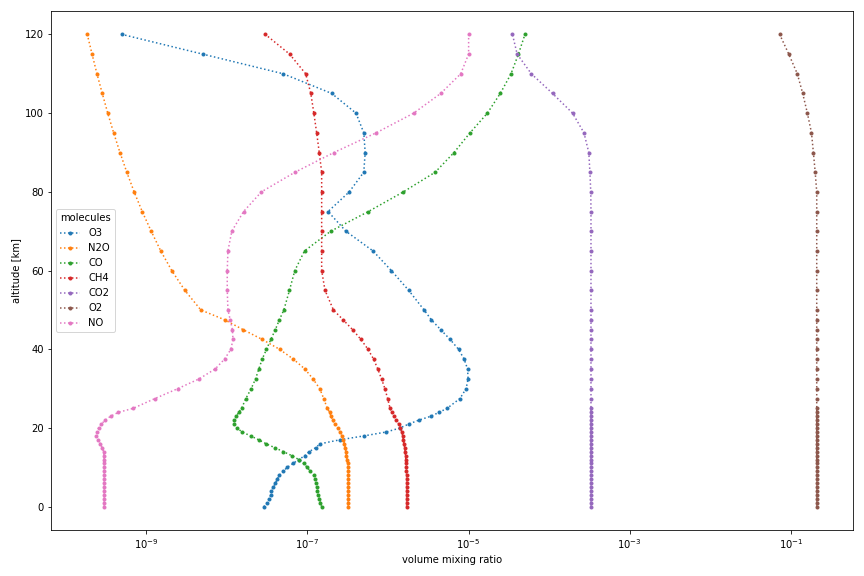
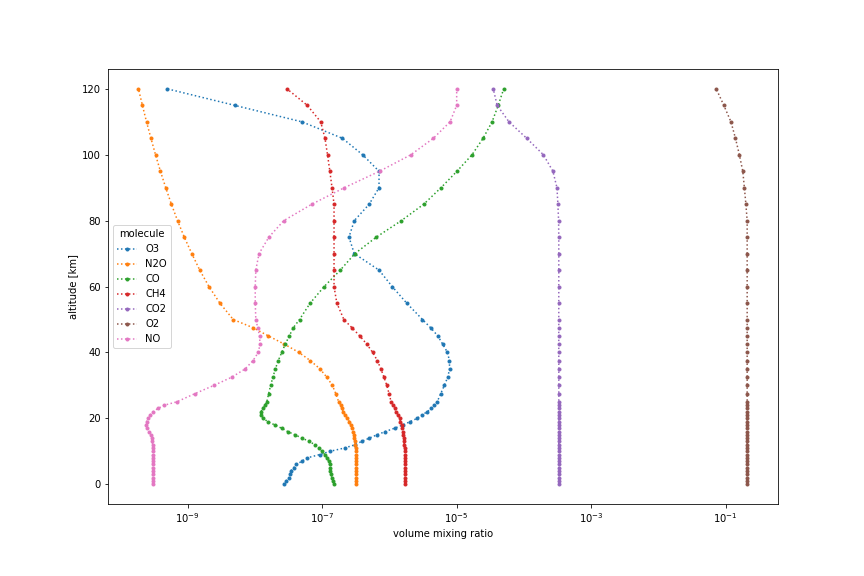
Renamed molecules -> molecule (#154)

diff --git a/src/joseki/util.py b/src/joseki/util.py
@@ -171,8 +171,8 @@ def make_data_set(
                 "m",
                 m,
                 dict(
-                    standard_name="molecules",
-                    long_name="molecules",
+                    standard_name="molecule",
+                    long_name="molecule",
                     units="",
                 ),
             ),
